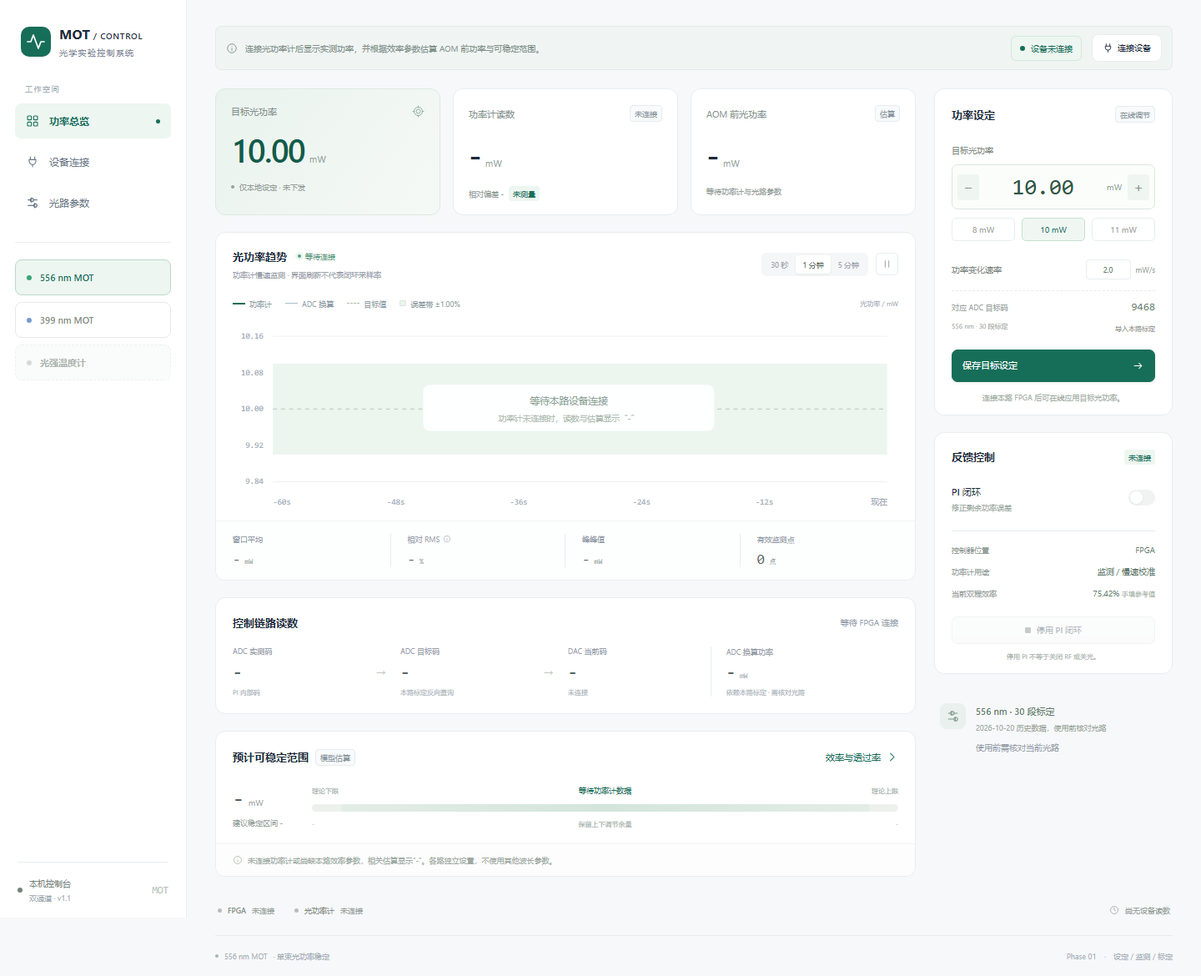
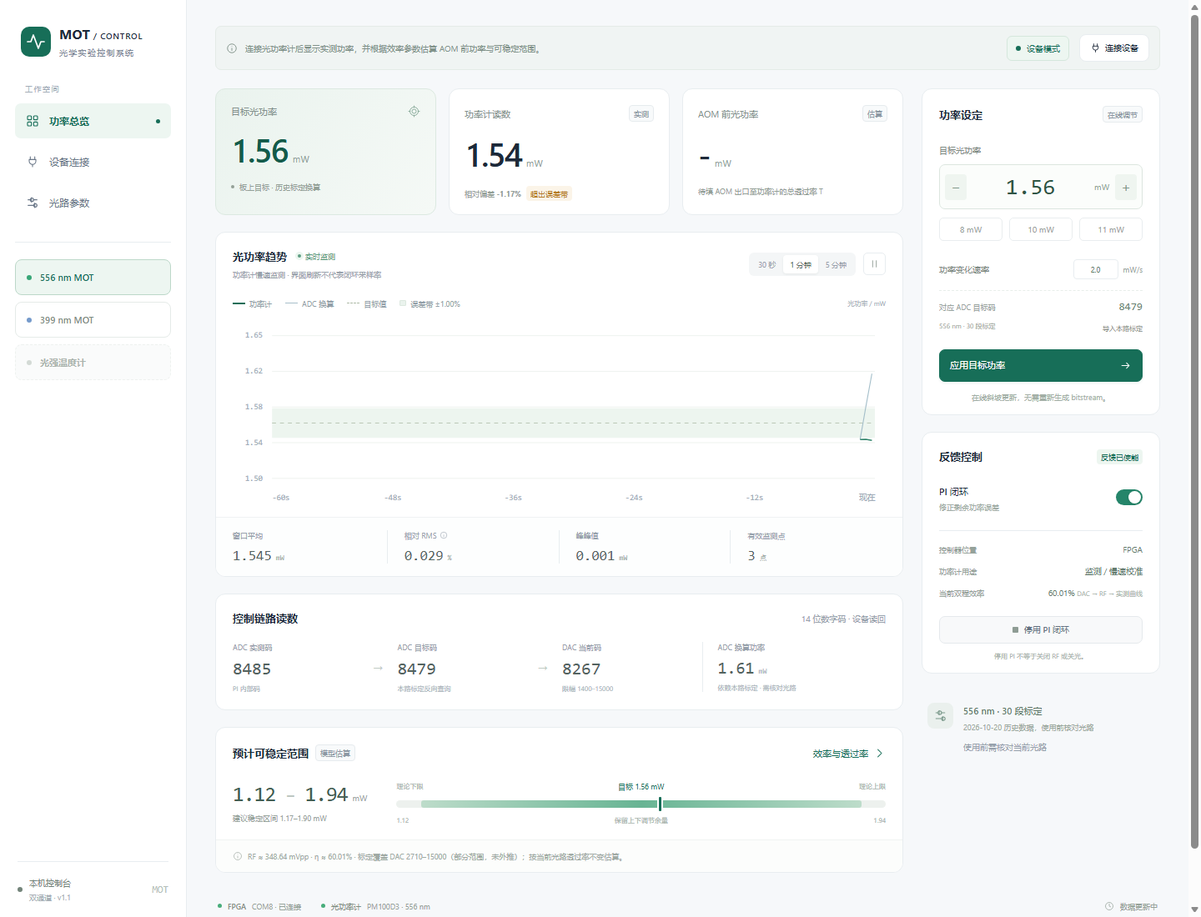
Use measured 556 nm efficiency curve and confirmed VCO amplitude scale

diff --git a/app.js b/app.js
@@ -4,7 +4,7 @@
   const fmt = (v, n = 2) => C.finite(v) ? v.toFixed(n) : '-';
   const escape = s => String(s).replace(/[&<>"']/g, c => ({ '&': '&amp;', '<': '&lt;', '>': '&gt;', '"': '&quot;', "'": '&#39;' }[c]));
   const icon = n => `<svg aria-hidden="true"><use href="#i-${n}"/></svg>`;
-  const defaultConfig = id => ({ efficiency: id === '556' ? 75.42 : null, transmission: null, minimum: id === '556' ? 60 : null, maximum: id === '556' ? 85 : null, margin: 5, tolerance: 1 });
+  const defaultConfig = id => ({ efficiency: null, transmission: null, minimum: null, maximum: null, margin: 5, tolerance: 1 });
   function validateConfig(value) {
     for (const k of ['efficiency', 'transmission', 'minimum', 'maximum']) if (value[k] !== null && !(C.finite(value[k]) && value[k] > 0 && value[k] <= 100)) throw Error('效率及透过率需大于 0 且不超过 100%，未知可留空');
     if (!C.finite(value.margin) || !(value.margin >= 0 && value.margin < 50) || !C.finite(value.tolerance) || !(value.tolerance >= .01 && value.tolerance <= 20)) throw Error('请检查预留余量与误差带');
@@ -18,7 +18,7 @@
       const savedCal = JSON.parse(localStorage.getItem(`mot-pid-calibration-${id}-v1`) || 'null');
       if (savedCal && savedCal.wavelength_nm === Number(id)) calibration = C.normalizeCalibration(savedCal);
     } catch {}
-    return { id, config, calibration, target: id === '556' ? 10 : null, draft: id === '556' ? '10.00' : '', rate: '2.0', port: id === '556' ? 'COM9' : '', serial: id === '556' ? 'P2007293' : '', chosen: false, applied: false, snapshot: null, polling: false, busy: false, history: [], window: 60, paused: false, pauseTime: 0, lastMeter: null, lastAdc: null, error: '', previousConnected: false };
+    return { id, config, calibration, target: id === '556' ? 10 : null, draft: id === '556' ? '10.00' : '', rate: '2.0', port: id === '556' ? 'COM8' : '', serial: id === '556' ? 'M01306624' : '', chosen: false, applied: false, snapshot: null, polling: false, busy: false, history: [], window: 60, paused: false, pauseTime: 0, lastMeter: null, lastAdc: null, error: '', previousConnected: false };
   }
   const channels = { '556': makeChannel('556'), '399': makeChannel('399') };
   let channelId = '556';
@@ -135,7 +135,14 @@
     catch (e) { s.snapshot = null; s.applied = false; s.previousConnected = false; s.serviceError = e.message.includes('旧版') ? e.message : ''; }
     finally { s.polling = false; if (id === channelId) render(); }
   }
-  function openParameters() { const s = current(); Object.keys(s.config).forEach(k => { $('range-form').elements[k].value = s.config[k] ?? ''; }); $('range-error').textContent = ''; $('range-dialog').showModal(); }
+  function opticalConfig(s = current()) {
+    if (s.id !== '556') return { ...s.config };
+    try {
+      if (!fresh(s.snapshot?.fpga)) throw Error('等待 FPGA 实时 DAC 读数');
+      return { ...s.config, ...C.estimateOptics556(s.snapshot.fpga), automatic: true };
+    } catch (e) { return { ...s.config, efficiency: null, minimum: null, maximum: null, automatic: true, error: e.message }; }
+  }
+  function openParameters() { const s = current(), config = opticalConfig(s); Object.keys(s.config).forEach(k => { const field = $('range-form').elements[k]; field.value = config[k] ?? ''; field.readOnly = s.id === '556' && ['efficiency','minimum','maximum'].includes(k); }); $('range-error').textContent = ''; $('range-dialog').showModal(); }
   $('range-settings').onclick = openParameters; $('nav-parameters').onclick = openParameters;
   $('range-form').onsubmit = e => {
     e.preventDefault(); const s = current(), f = e.currentTarget;
@@ -156,11 +163,11 @@
     } catch (e) { toast(e.message, true); } finally { event.target.value = ''; }
   };
   function renderRange(power) {
-    const s = current(), config = s.config; let range = null;
+    const s = current(), config = opticalConfig(s); let range = null;
     if (C.finite(power) && power > 0) { try { range = C.estimateRange({ ...config, reference: power }); } catch {} }
     const upstream = C.finite(power) && power >= 0 && config.efficiency > 0 && config.transmission > 0 ? power / (config.efficiency / 100 * config.transmission / 100) : null;
     $('upstream-metric').textContent = fmt(upstream);
-    $('upstream-note').textContent = !C.finite(power) ? '等待功率计与光路参数' : !config.efficiency || !config.transmission ? '当前效率或透过率未知' : `η ${config.efficiency}% · T ${config.transmission}%`;
+    $('upstream-note').textContent = !C.finite(power) ? '等待功率计与光路参数' : !config.efficiency || !config.transmission ? config.error || (!config.transmission ? '待填 AOM 出口至功率计的总透过率 T' : '当前效率未知') : `η ${config.efficiency}% · T ${config.transmission}%`;
     $('range-values').innerHTML = range ? `${fmt(range.low)} <span>–</span> ${fmt(range.high)}` : '-';
     $('range-recommend').textContent = range ? `建议稳定区间 ${fmt(range.recommendedLow)}–${fmt(range.recommendedHigh)} mW` : '建议稳定区间 -';
     $('range-low').textContent = range ? fmt(range.low) : '-'; $('range-high').textContent = range ? fmt(range.high) : '-';
@@ -168,9 +175,12 @@
     const track = document.querySelector('.range-recommended'); track.style.opacity = range ? '1' : '.2'; track.style.left = config.margin + '%'; track.style.right = config.margin + '%';
     if (range && C.finite(s.target)) { const outside = s.target < range.low || s.target > range.high; $('range-marker').style.left = Math.max(0, Math.min(100, (s.target - range.low) / (range.high - range.low) * 100)) + '%'; $('range-marker').style.background = outside ? '#b67c25' : '#176e58'; $('range-target-label').textContent = outside ? '目标超出估算范围' : `目标 ${fmt(s.target)} mW`; }
     else $('range-target-label').textContent = !C.finite(power) ? '等待功率计数据' : !range ? '等待效率范围参数' : '尚未设置目标';
-    $('range-note').textContent = range ? `按实测 ${fmt(power)} mW、手填当前效率 ${config.efficiency}%、可调效率 ${config.minimum}%–${config.maximum}% 估算。改变 RF / DAC 后须更新效率，下游透过率须稳定。` : '未连接功率计或尚缺本路效率参数，相关估算显示“-”。各路独立设置，不使用其他波长参数。';
+    $('range-note').textContent = range ? config.automatic ?
+      `RF ≈ ${fmt(config.rf)} mVpp · η ≈ ${fmt(config.efficiency)}% · 标定覆盖 DAC ${config.lowDac}–${config.highDac}${config.partial ? '（部分范围，未外推）' : ''}；按当前光路透过率不变估算。` :
+      `按实测功率和手填效率估算；改变 RF 后须更新效率。` : config.error || '等待功率计与本路效率参数';
+    if (config.automatic) $('efficiency-detail').innerHTML = C.finite(config.efficiency) ? `${fmt(config.efficiency)}% <small>DAC → RF → 实测曲线</small>` : '<small>等待有效 DAC 读数</small>';
   }
-  function statusText(status) { const a = [[1, '丢光'], [2, 'ADC 过量程'], [4, '输出饱和'], [8, '积分到限'], [16, '反馈冻结'], [32, 'ADC 时钟停止']].filter(([b]) => status & b).map(([, s]) => s); return a.length ? a.join(' / ') : '正常'; }
+  function statusText(status) { const a = [[1, '丢光'], [2, 'ADC 过量程历史标志'], [4, '输出饱和'], [8, '积分到限'], [16, '反馈冻结'], [32, 'ADC 时钟停止']].filter(([b]) => status & b).map(([, s]) => s); return a.length ? a.join(' / ') : '正常'; }
   function render() {
     const s = current(), config = s.config, cal = s.calibration, r = readings(s), f = r.f, m = r.m, busy = anyBusy();
     $('footer-channel').textContent = `${channelId} nm MOT`;
@@ -180,14 +190,14 @@
     all('[data-channel]').forEach(b => { const selected = b.dataset.channel === channelId; b.classList.toggle('active', selected); b.setAttribute('aria-selected', String(selected)); b.disabled = busy; });
     $('mode-text').textContent = f?.connected || m?.connected ? '设备模式' : '设备未连接';
     $('notice-text').textContent = s.serviceError || '连接光功率计后显示实测功率，并根据效率参数估算 AOM 前功率与可稳定范围。';
-    $('target-metric').textContent = fmt(s.target); $('target-foot').textContent = s.applied && r.fpgaLive ? (f.ramp ? '正在斜坡更新 · 读回校验' : 'FPGA 目标已读回') : C.finite(s.target) ? '仅本地设定 · 未下发' : '尚未设置目标';
+    $('target-metric').textContent = fmt(s.target); $('target-foot').textContent = s.applied && r.fpgaLive ? (f.ramp ? '正在斜坡更新 · 读回校验' : cal?.historical ? '板上目标 · 历史标定换算' : 'FPGA 目标已读回') : C.finite(s.target) ? '仅本地设定 · 未下发' : '尚未设置目标';
     $('power-metric').textContent = fmt(r.power); $('meter-tag').textContent = r.meterLive ? '实测' : m?.connected ? '等待读数' : '未连接';
     const deviation = C.finite(r.power) && s.target > 0 ? (r.power - s.target) / s.target * 100 : null;
     $('error-metric').textContent = C.finite(deviation) ? `${deviation >= 0 ? '+' : ''}${fmt(deviation)}%` : '-';
     $('lock-tag').textContent = C.finite(deviation) ? Math.abs(deviation) <= config.tolerance ? '误差带内' : '超出误差带' : '未测量'; $('lock-tag').classList.toggle('warn', C.finite(deviation) && Math.abs(deviation) > config.tolerance);
     $('tolerance-foot').innerHTML = `<i></i>误差带 ±${fmt(config.tolerance)}%`;
     $('adc-code').textContent = r.fpgaLive ? f.adc_code : '-'; $('adc-target').textContent = r.fpgaLive ? f.setpoint_code : '-'; $('dac-code').textContent = r.fpgaLive ? f.dac_code : '-'; $('adc-power').innerHTML = fmt(r.adcPower) + '<small> mW</small>';
-    $('readback-label').textContent = r.fpgaLive ? '14 位数字码 · 设备读回' : '等待 FPGA 连接'; $('dac-detail').textContent = r.fpgaLive ? '实际输出读回' : '未连接';
+    $('readback-label').textContent = r.fpgaLive ? '14 位数字码 · 设备读回' : '等待 FPGA 连接'; $('dac-detail').textContent = r.fpgaLive ? `${f.dac_code === f.out_max ? '已达上限 · ' : f.dac_code === f.out_min ? '已达下限 · ' : ''}限幅 ${f.out_min}–${f.out_max}` : '未连接';
     $('pi-toggle').classList.toggle('on', !!(r.fpgaLive && f.pi_enabled)); $('pi-toggle').setAttribute('aria-checked', String(!!(r.fpgaLive && f.pi_enabled))); $('pi-toggle').disabled = busy || !r.fpgaLive; $('stop-loop').disabled = busy || !r.fpgaLive || !f.pi_enabled;
     $('loop-status').textContent = r.fpgaLive ? (f.status & 63 ? statusText(f.status) : f.pi_enabled ? '反馈已使能' : '反馈已停用') : '未连接'; $('loop-status').classList.toggle('warn', r.fpgaLive && !!(f.status & 63));
     $('efficiency-detail').innerHTML = C.finite(config.efficiency) ? fmt(config.efficiency) + '% <small>手填参考值</small>' : '<small>本路尚未填写</small>';

diff --git a/core.js b/core.js
@@ -56,7 +56,28 @@
     }
     return normalizeCalibration(JSON.parse(text));
   }
-  const api = { finite, normalizeCalibration, interpolate, toCode, toPower, estimateRange, ramp, stats, parseCalibration };
+  const efficiency556 = [{"rf":300.0,"eta":43.720778576},{"rf":301.0,"eta":44.199880424},{"rf":302.0,"eta":44.397249904},{"rf":303.0,"eta":44.5000346993},{"rf":304.0,"eta":44.7482864318},{"rf":305.0,"eta":45.0874195733},{"rf":306.0,"eta":45.5865115525},{"rf":307.0,"eta":45.9824408511},{"rf":308.0,"eta":46.4099235703},{"rf":309.0,"eta":46.7162940584},{"rf":310.0,"eta":46.9235452383},{"rf":311.0,"eta":47.0761919959},{"rf":312.0,"eta":47.264473335},{"rf":313.0,"eta":47.5393281909},{"rf":314.0,"eta":47.7885435309},{"rf":315.0,"eta":48.2598420479},{"rf":316.0,"eta":48.7633930734},{"rf":317.0,"eta":49.1928974788},{"rf":318.0,"eta":50.3723718986},{"rf":319.0,"eta":50.8176530143},{"rf":320.0,"eta":51.1573151953},{"rf":321.0,"eta":51.4300538937},{"rf":322.0,"eta":51.6615464142},{"rf":323.0,"eta":51.9079087203},{"rf":324.0,"eta":52.0963978963},{"rf":325.0,"eta":52.2617415991},{"rf":326.0,"eta":52.4616995932},{"rf":327.0,"eta":52.7031116022},{"rf":328.0,"eta":53.0424336864},{"rf":329.0,"eta":53.3352947758},{"rf":330.0,"eta":53.8710416268},{"rf":331.0,"eta":54.3099742699},{"rf":332.0,"eta":54.7353408316},{"rf":333.0,"eta":55.1388089415},{"rf":334.0,"eta":55.6303810036},{"rf":335.0,"eta":56.0781183737},{"rf":336.0,"eta":56.444667092},{"rf":337.0,"eta":56.7425729499},{"rf":338.0,"eta":56.9283224576},{"rf":339.0,"eta":57.047583051},{"rf":340.0,"eta":57.3397261583},{"rf":341.0,"eta":57.5265337449},{"rf":342.0,"eta":57.7424951805},{"rf":343.0,"eta":57.9698687514},{"rf":344.0,"eta":58.1989239119},{"rf":345.0,"eta":58.4505955061},{"rf":346.0,"eta":58.7627665332},{"rf":347.0,"eta":59.1787993285},{"rf":348.0,"eta":59.7115608858},{"rf":349.0,"eta":60.1766242958},{"rf":350.0,"eta":60.5821140919},{"rf":351.0,"eta":61.0149060993},{"rf":352.0,"eta":61.4632858743},{"rf":353.0,"eta":61.8272460785},{"rf":354.0,"eta":62.063178751},{"rf":355.0,"eta":62.3028902763},{"rf":356.0,"eta":62.4135728738},{"rf":357.0,"eta":63.4952316897},{"rf":358.0,"eta":63.5884559875},{"rf":359.0,"eta":63.6962477626},{"rf":360.0,"eta":63.8496125022},{"rf":361.0,"eta":64.0823709383},{"rf":362.0,"eta":64.3186248133},{"rf":363.0,"eta":64.7477513335},{"rf":364.0,"eta":65.2441036444},{"rf":365.0,"eta":65.682715085},{"rf":366.0,"eta":66.1016198084},{"rf":367.0,"eta":66.6116326721},{"rf":368.0,"eta":67.028496815},{"rf":369.0,"eta":67.4500656297},{"rf":370.0,"eta":67.7267532292},{"rf":371.0,"eta":67.9207595303},{"rf":372.0,"eta":67.9883821005},{"rf":373.0,"eta":68.0519424041},{"rf":374.0,"eta":68.1486432464},{"rf":375.0,"eta":68.2507289539},{"rf":376.0,"eta":68.4653111082},{"rf":377.0,"eta":68.7128259644},{"rf":378.0,"eta":68.9989984844},{"rf":379.0,"eta":69.3267383849},{"rf":380.0,"eta":69.7134850713},{"rf":381.0,"eta":70.1644155719},{"rf":382.0,"eta":70.7923286419},{"rf":383.0,"eta":71.2182431372},{"rf":384.0,"eta":71.5986224567},{"rf":385.0,"eta":71.8234641963},{"rf":386.0,"eta":72.1840045388},{"rf":387.0,"eta":72.3536183452},{"rf":388.0,"eta":72.5463398363},{"rf":389.0,"eta":72.5883984676},{"rf":390.0,"eta":72.6475941962},{"rf":391.0,"eta":72.7549891918},{"rf":392.0,"eta":72.8521434964},{"rf":393.0,"eta":72.9696091347},{"rf":394.0,"eta":73.2940992218},{"rf":395.0,"eta":73.5383831588},{"rf":396.0,"eta":74.0816688211},{"rf":397.0,"eta":74.4940361293},{"rf":398.0,"eta":74.8715813092},{"rf":399.0,"eta":75.2423245541},{"rf":400.0,"eta":75.4174554856},{"rf":401.0,"eta":74.7112634805},{"rf":402.0,"eta":74.8933663954},{"rf":403.0,"eta":74.9995710524},{"rf":404.0,"eta":75.0162924759},{"rf":405.0,"eta":74.9803744803},{"rf":406.0,"eta":74.975839857},{"rf":407.0,"eta":75.0238501814},{"rf":408.0,"eta":75.0595225515},{"rf":409.0,"eta":75.2748415822},{"rf":410.0,"eta":75.4127508139},{"rf":411.0,"eta":75.8588821715},{"rf":412.0,"eta":76.2261866604},{"rf":413.0,"eta":76.594039083},{"rf":414.0,"eta":76.9329077048},{"rf":415.0,"eta":77.1828599211},{"rf":416.0,"eta":77.4277862631},{"rf":417.0,"eta":77.5986281967},{"rf":418.0,"eta":77.6233985766},{"rf":419.0,"eta":77.5635037603},{"rf":420.0,"eta":77.4609456962},{"rf":421.0,"eta":77.3094325945},{"rf":422.0,"eta":77.2305301487},{"rf":423.0,"eta":77.2577378886},{"rf":424.0,"eta":77.2669582894},{"rf":425.0,"eta":77.4851114596},{"rf":426.0,"eta":77.8541542208},{"rf":427.0,"eta":78.2010151162},{"rf":428.0,"eta":78.5091616651},{"rf":429.0,"eta":78.7730956366},{"rf":430.0,"eta":78.974432912},{"rf":431.0,"eta":79.0307189239},{"rf":432.0,"eta":79.0318147913},{"rf":433.0,"eta":78.9674798229},{"rf":434.0,"eta":78.8376006533},{"rf":435.0,"eta":78.7053597007},{"rf":436.0,"eta":78.6728993555},{"rf":437.0,"eta":78.646012818},{"rf":438.0,"eta":78.7108012487},{"rf":439.0,"eta":78.8530183726},{"rf":440.0,"eta":78.9986931468},{"rf":441.0,"eta":79.2436761716},{"rf":442.0,"eta":79.6594633415},{"rf":443.0,"eta":79.8842295041},{"rf":444.0,"eta":80.0699790118},{"rf":445.0,"eta":80.1342195089},{"rf":446.0,"eta":80.0904792881},{"rf":447.0,"eta":80.0274669182},{"rf":448.0,"eta":80.3269221057},{"rf":449.0,"eta":80.2510616364},{"rf":450.0,"eta":80.1997259216},{"rf":451.0,"eta":80.205772086},{"rf":452.0,"eta":80.3037955268},{"rf":453.0,"eta":80.4759789531},{"rf":454.0,"eta":80.7405553295},{"rf":455.0,"eta":80.8864568348},{"rf":456.0,"eta":81.108332175},{"rf":457.0,"eta":81.2983328921},{"rf":458.0,"eta":81.2938360573},{"rf":459.0,"eta":81.1530548975},{"rf":460.0,"eta":80.992529232},{"rf":461.0,"eta":80.9056911954},{"rf":462.0,"eta":80.8609306844},{"rf":463.0,"eta":80.8960551209},{"rf":464.0,"eta":81.0017118442},{"rf":465.0,"eta":81.2238139156},{"rf":466.0,"eta":81.4410412669},{"rf":467.0,"eta":81.6205934561},{"rf":468.0,"eta":81.8819578077},{"rf":469.0,"eta":82.0044871086},{"rf":470.0,"eta":82.0672727473},{"rf":471.0,"eta":82.0903426435},{"rf":472.0,"eta":81.9301381804},{"rf":473.0,"eta":81.8149398539},{"rf":474.0,"eta":81.7784928189},{"rf":475.0,"eta":81.8206837101},{"rf":476.0,"eta":81.89473033},{"rf":477.0,"eta":82.0634183175},{"rf":478.0,"eta":82.206750203},{"rf":479.0,"eta":82.3896655711},{"rf":480.0,"eta":82.5825382163},{"rf":481.0,"eta":82.6691873103},{"rf":482.0,"eta":82.7135321475},{"rf":483.0,"eta":82.7234327417},{"rf":484.0,"eta":82.7019310695},{"rf":485.0,"eta":82.6614784506},{"rf":486.0,"eta":82.6064394601},{"rf":487.0,"eta":82.5905493842},{"rf":488.0,"eta":82.6470621273},{"rf":489.0,"eta":82.6911235506},{"rf":490.0,"eta":82.7528322163},{"rf":491.0,"eta":82.786331746},{"rf":492.0,"eta":82.930702816},{"rf":493.0,"eta":82.8074933215},{"rf":494.0,"eta":82.6990402471},{"rf":495.0,"eta":82.6834335852},{"rf":496.0,"eta":82.6435100057},{"rf":497.0,"eta":82.5686698267},{"rf":498.0,"eta":82.4904853629},{"rf":499.0,"eta":82.3990182317},{"rf":500.0,"eta":82.4186682661},{"rf":501.0,"eta":82.4756533658},{"rf":502.0,"eta":82.5140465099},{"rf":503.0,"eta":82.4824930893},{"rf":504.0,"eta":82.573128873},{"rf":505.0,"eta":82.591607463},{"rf":506.0,"eta":82.5428602623},{"rf":507.0,"eta":82.3401814942},{"rf":508.0,"eta":82.175744716},{"rf":509.0,"eta":82.0402917386},{"rf":510.0,"eta":81.9604445796},{"rf":511.0,"eta":81.9857062104},{"rf":512.0,"eta":82.0513259887},{"rf":513.0,"eta":82.0409341436},{"rf":514.0,"eta":82.0349446619},{"rf":515.0,"eta":82.0471881449},{"rf":516.0,"eta":82.0195269426},{"rf":517.0,"eta":81.9286077451},{"rf":518.0,"eta":81.7879021623},{"rf":519.0,"eta":81.6217460062},{"rf":520.0,"eta":81.428230956},{"rf":521.0,"eta":81.2524954081},{"rf":522.0,"eta":81.2327886909},{"rf":523.0,"eta":81.2310882072},{"rf":524.0,"eta":81.2974826503},{"rf":525.0,"eta":81.2569166658},{"rf":526.0,"eta":81.3361403141},{"rf":527.0,"eta":81.093292341},{"rf":528.0,"eta":80.9555153691},{"rf":529.0,"eta":80.8223297034},{"rf":530.0,"eta":80.7336211347},{"rf":531.0,"eta":80.6595556205},{"rf":532.0,"eta":80.6622197117},{"rf":533.0,"eta":80.5447729677},{"rf":534.0,"eta":80.5122181511},{"rf":535.0,"eta":80.4636787873},{"rf":536.0,"eta":80.4083563828},{"rf":537.0,"eta":80.3576630729},{"rf":538.0,"eta":80.2454311458},{"rf":539.0,"eta":80.0598138979},{"rf":540.0,"eta":79.860158212},{"rf":541.0,"eta":79.6279477094},{"rf":542.0,"eta":79.3741221691},{"rf":543.0,"eta":79.3854209389},{"rf":544.0,"eta":79.3140761987},{"rf":545.0,"eta":79.2174509334},{"rf":546.0,"eta":79.1602957853},{"rf":547.0,"eta":79.0796172787},{"rf":548.0,"eta":78.9972571827},{"rf":549.0,"eta":78.856343763},{"rf":550.0,"eta":78.6691205027}];
+
+  // DDS GUI amplitude is a peak parameter; measured peak = setting * 0.77.
+  // RF Vpp uses the factor 2 exactly once. No extrapolation of optical data.
+  function estimateOptics556(f) {
+    if (!f || ![f.dac_code, f.out_min, f.out_max].every(finite) ||
+        f.out_min < 0 || f.out_max > 16383 || f.out_min >= f.out_max ||
+        f.dac_code < f.out_min || f.dac_code > f.out_max) throw Error('等待有效 DAC 与限幅读回');
+    const rfAt = d => 2000 * .77 * (.226 + .0087 * (d - 8198) * .0006533);
+    const dacAt = rf => 8198 + (rf / (2000 * .77) - .226) / (.0087 * .0006533);
+    const calibratedMin = Math.ceil(dacAt(efficiency556[0].rf));
+    const calibratedMax = Math.floor(dacAt(efficiency556.at(-1).rf));
+    const lowDac = Math.max(f.out_min, calibratedMin), highDac = Math.min(f.out_max, calibratedMax);
+    if (lowDac >= highDac) throw Error('DAC 可调区间不在效率标定覆盖范围内');
+    const rf = rfAt(f.dac_code), lowRF = rfAt(lowDac), highRF = rfAt(highDac);
+    const efficiency = interpolate(efficiency556, rf, 'rf', 'eta');
+    const eta = [interpolate(efficiency556, lowRF, 'rf', 'eta'), interpolate(efficiency556, highRF, 'rf', 'eta'),
+      ...efficiency556.filter(p => p.rf > lowRF && p.rf < highRF).map(p => p.eta)];
+    return { rf, efficiency, minimum: Math.min(...eta), maximum: Math.max(...eta), lowDac, highDac,
+      partial: lowDac !== f.out_min || highDac !== f.out_max };
+  }
+  const api = { estimateOptics556, finite, normalizeCalibration, interpolate, toCode, toPower, estimateRange, ramp, stats, parseCalibration };
   if (typeof module !== 'undefined' && module.exports) module.exports = api;
   root.MotCore = api;
 })(typeof window !== 'undefined' ? window : globalThis);

diff --git a/index.html b/index.html
@@ -85,9 +85,9 @@
  </main>
 </div>
 
-<dialog id="connect-dialog"><div class="dialog-heading"><div><span class="eyebrow">DEVICE CONNECTION</span><h2 id="connect-dialog-title">连接 556 nm 设备</h2></div><button class="icon-button close-dialog" aria-label="关闭"><svg><use href="#i-x"/></svg></button></div><p class="dialog-description">设备模式只显示实际读回；连接时读取控制状态，不自动更改目标或 PI 参数。</p><div id="hardware-fields"><div class="service-state" id="service-state">正在检查本机服务…</div><div class="connection-form"><label>FPGA 串口<div class="input-with-button"><input id="serial-port" value="COM9" list="serial-ports" placeholder="COM9" aria-label="FPGA 串口"><datalist id="serial-ports"></datalist><button class="button" id="refresh-ports">刷新</button></div></label><button class="button primary" id="connect-fpga">连接 FPGA</button></div><p class="subtle small-text">UART 115200 · 8N1 · 支持 A623 / A624 测量固件及 5030 分段标定固件。</p><div class="connection-form"><label>功率计序列号<input id="meter-serial" value="P2007293" placeholder="仪器序列号"></label><button class="button" id="connect-meter">连接功率计</button></div><p class="subtle small-text"><span id="meter-wavelength-note">使用本机 TLPMX 64 位驱动，连接后设置并回读 556 nm。</span></p><p id="connection-error" class="field-error" role="alert"></p></div><div class="dialog-footer"><span id="connection-feedback">连接时只读，不自动应用目标。</span><button class="button close-dialog">完成</button></div></dialog>
+<dialog id="connect-dialog"><div class="dialog-heading"><div><span class="eyebrow">DEVICE CONNECTION</span><h2 id="connect-dialog-title">连接 556 nm 设备</h2></div><button class="icon-button close-dialog" aria-label="关闭"><svg><use href="#i-x"/></svg></button></div><p class="dialog-description">设备模式只显示实际读回；连接时读取控制状态，不自动更改目标或 PI 参数。</p><div id="hardware-fields"><div class="service-state" id="service-state">正在检查本机服务…</div><div class="connection-form"><label>FPGA 串口<div class="input-with-button"><input id="serial-port" value="COM8" list="serial-ports" placeholder="COM8" aria-label="FPGA 串口"><datalist id="serial-ports"></datalist><button class="button" id="refresh-ports">刷新</button></div></label><button class="button primary" id="connect-fpga">连接 FPGA</button></div><p class="subtle small-text">UART 115200 · 8N1 · 支持 A623 / A624 测量固件及 5030 分段标定固件。</p><div class="connection-form"><label>功率计序列号<input id="meter-serial" value="M01306624" placeholder="仪器序列号"></label><button class="button" id="connect-meter">连接功率计</button></div><p class="subtle small-text"><span id="meter-wavelength-note">使用本机 TLPMX 64 位驱动，连接后设置并回读 556 nm。</span></p><p id="connection-error" class="field-error" role="alert"></p></div><div class="dialog-footer"><span id="connection-feedback">连接时只读，不自动应用目标。</span><button class="button close-dialog">完成</button></div></dialog>
 
-<dialog id="range-dialog"><div class="dialog-heading"><div><span class="eyebrow">OPTICAL PATH PARAMETERS</span><h2 id="range-dialog-title">556 nm · AOM 功率与范围估算</h2></div><button class="icon-button close-dialog" aria-label="关闭"><svg><use href="#i-x"/></svg></button></div><p class="dialog-description">功率取自连接的功率计。请填写同一工作点的双程效率；改变 RF / DAC 后需要更新效率。未知参数可留空。556 nm 的初始 60%–85% 仅为假设范围。</p><form id="range-form"><div class="form-grid"><label>当前双程效率 η / %<input name="efficiency" type="number" min="0.01" max="100" step="any" placeholder="未知则留空"></label><label>下游透过率 T / %<input name="transmission" type="number" min="0.01" max="100" step="any" placeholder="未知则留空"></label><label>最小双程效率 / %<input name="minimum" type="number" min="0.01" max="100" step="any" placeholder="未知则留空"></label><label>最大双程效率 / %<input name="maximum" type="number" min="0.01" max="100" step="any" placeholder="未知则留空"></label><label>每侧预留跨度 / %<input name="margin" type="number" min="0" max="49" step="any" required></label><label>误差带 / %<input name="tolerance" type="number" min="0.01" max="20" step="any" required></label></div><div class="info-box"><svg><use href="#i-info"/></svg><p>AOM 前功率 = 功率计读数 ÷ (η × T)。理论上下限 = 功率计读数 × 最小或最大效率 ÷ η。仅当功率计位于 AOM 出口、没有下游损耗时，T 才可填 100%。</p></div><p class="field-error" id="range-error" role="alert"></p><div class="dialog-footer"><span>无功率计数据时，估算结果显示“-”</span><button type="submit" class="button primary">保存参数</button></div></form></dialog>
+<dialog id="range-dialog"><div class="dialog-heading"><div><span class="eyebrow">OPTICAL PATH PARAMETERS</span><h2 id="range-dialog-title">556 nm · AOM 功率与范围估算</h2></div><button class="icon-button close-dialog" aria-label="关闭"><svg><use href="#i-x"/></svg></button></div><p class="dialog-description">功率取自连接的功率计。请填写光路参数。556 nm 效率与上下限自动由 DAC、已确认的 VCO 映射及实测效率曲线换算；399 nm 手动填写。未知透过率留空。</p><form id="range-form"><div class="form-grid"><label>当前双程效率 η / %<input name="efficiency" type="number" min="0.01" max="100" step="any" placeholder="未知则留空"></label><label>下游透过率 T / %<input name="transmission" type="number" min="0.01" max="100" step="any" placeholder="未知则留空"></label><label>最小双程效率 / %<input name="minimum" type="number" min="0.01" max="100" step="any" placeholder="未知则留空"></label><label>最大双程效率 / %<input name="maximum" type="number" min="0.01" max="100" step="any" placeholder="未知则留空"></label><label>每侧预留跨度 / %<input name="margin" type="number" min="0" max="49" step="any" required></label><label>误差带 / %<input name="tolerance" type="number" min="0.01" max="20" step="any" required></label></div><div class="info-box"><svg><use href="#i-info"/></svg><p>AOM 前功率 = 功率计读数 ÷ (η × T)。理论上下限 = 功率计读数 × 最小或最大效率 ÷ η。仅当功率计位于 AOM 出口、没有下游损耗时，T 才可填 100%。</p></div><p class="field-error" id="range-error" role="alert"></p><div class="dialog-footer"><span>无功率计数据时，估算结果显示“-”</span><button type="submit" class="button primary">保存参数</button></div></form></dialog>
 
 
 <div class="toast-stack" id="toast-stack" role="status" aria-live="polite"></div>

diff --git a/README.md b/README.md
@@ -17,8 +17,8 @@
 ## 使用
 
 1. 输入目标光功率（mW），可先保存设定。连接 FPGA 后点击“应用目标功率”，通过原有 30 段标定换算 ADC 目标码，并按设置的变化速率更新。每次写入目标后读回校验，不需要重新烧录。
-2. 点“连接设备”，填写本路 FPGA 串口和功率计序列号（556 nm 初始 COM9 / P2007293；399 nm 留空，按实际仪器填写）。功率计可独立于 FPGA 连接。
-3. 点“效率与透过率”，填写同一工作点的双程效率 η、AOM 出口到功率计位置的下游总透过率 T，以及可调效率上下限。
+2. 点“连接设备”，填写本路 FPGA 串口和功率计序列号（556 nm 初始 COM8 / M01306624；399 nm 留空，按实际仪器填写）。功率计可独立于 FPGA 连接。
+3. 点“效率与透过率”，填写 AOM 出口到功率计位置的总透过率 T。556 nm 的效率及上下限自动计算；399 nm 手动填写。
 4. 查看实测功率、AOM 前估计功率和预计可稳定范围。没有功率计或数据过期时，这些数据显示 `-`。即使 FPGA 已连接，也不会用 ADC 换算功率冒充功率计读数。
 
 ## 计算
@@ -28,7 +28,7 @@
 - 预计功率上限 = 功率计读数 × 最大效率 ÷ η。
 - 默认在理论范围两端各预留总跨度的 5%，作为建议范围。
 
-η 是双程总效率，不再平方。界面参数使用百分数。初始效率 75.42% 来自用户给定工作点；60%–85% 是待实测确认的范围假设。T 不默认按 100% 计算。改变 RF / DAC 后应更新对应效率，估算要求下游耦合稳定。
+η 是双程总效率，不再平方。界面参数使用百分数。556 nm 使用实测曲线随 DAC 自动更新；399 nm 改变 RF 后应更新手填效率。T 不默认按 100% 计算。范围估算要求下游耦合稳定。
 
 当前使用 mW 表示光功率；尚无光束面积，未换算为 mW/cm²。
 
@@ -56,3 +56,14 @@
 ![399 nm PID Control Console](docs/ui399-preview.png)
 
 从单通道版本升级时，请关闭原控制台命令窗口，再重新运行 start.cmd；新版界面会拒绝使用尚未重启的旧设备服务。
+
+
+## 2026-10-28：556 nm 自动效率估算
+
+556 nm 使用已确认的通道 8 参数：100 MHz、A=0.226+0.0087V。GUI 幅度为峰值参数，实际峰值=设置值×0.77，因此 RF[mVpp]=2000×0.77×A；DAC 电压 V=(D−8198)×0.0006533。使用 2026-10-21 的 300–550 mVpp / 251 点原始效率表插值，数据在 data/556-double-pass.csv。估算要求映射、RF 链路与光路条件仍适用。
+
+效率随 FPGA 实时 DAC 更新；功率范围取实际 DAC 限幅与标定区间的交集，并检查区间内所有效率节点的极值，包含非单调段。超出标定部分不外推，界面明确标为部分范围。无有效 DAC 或功率计读数时不显示范围。AOM 入射功率仍需要实际下游总透过率 T；T 未知保持“-”，不以 100% 代替。
+
+当前设备默认串口 COM8、功率计 M01306624。板上目标的 mW 显示来自 ADC 历史标定，尚不能据此认定当前光路标定已验收。UI 更新不写 FPGA、DDS 或 Flash。
+
+实机验证：2026-10-28 恢复 A624 RAM 固件与 C07 参数，当前工作点重测目标 ADC 8479。目标小幅往返时，实测均值约 1.54422 → 1.48606 → 1.54476 mW，最终恢复原目标码；本次验证控制响应，不宣称绝对功率误差已达 ±1%。详见 docs/20261028-live-check.json。Flash 未写，掉电后需恢复 RAM 固件与参数。
